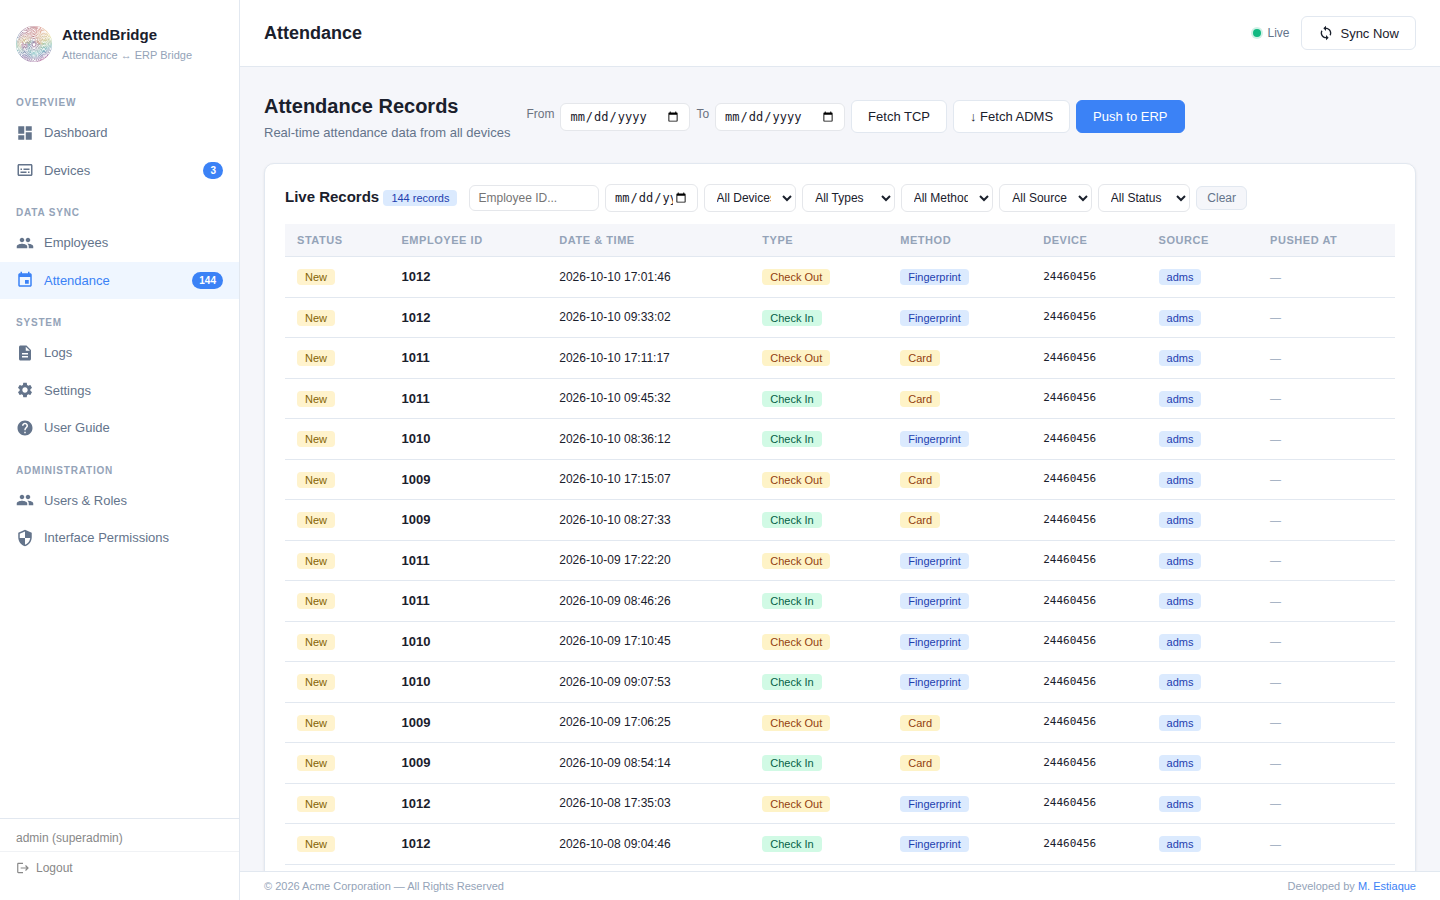
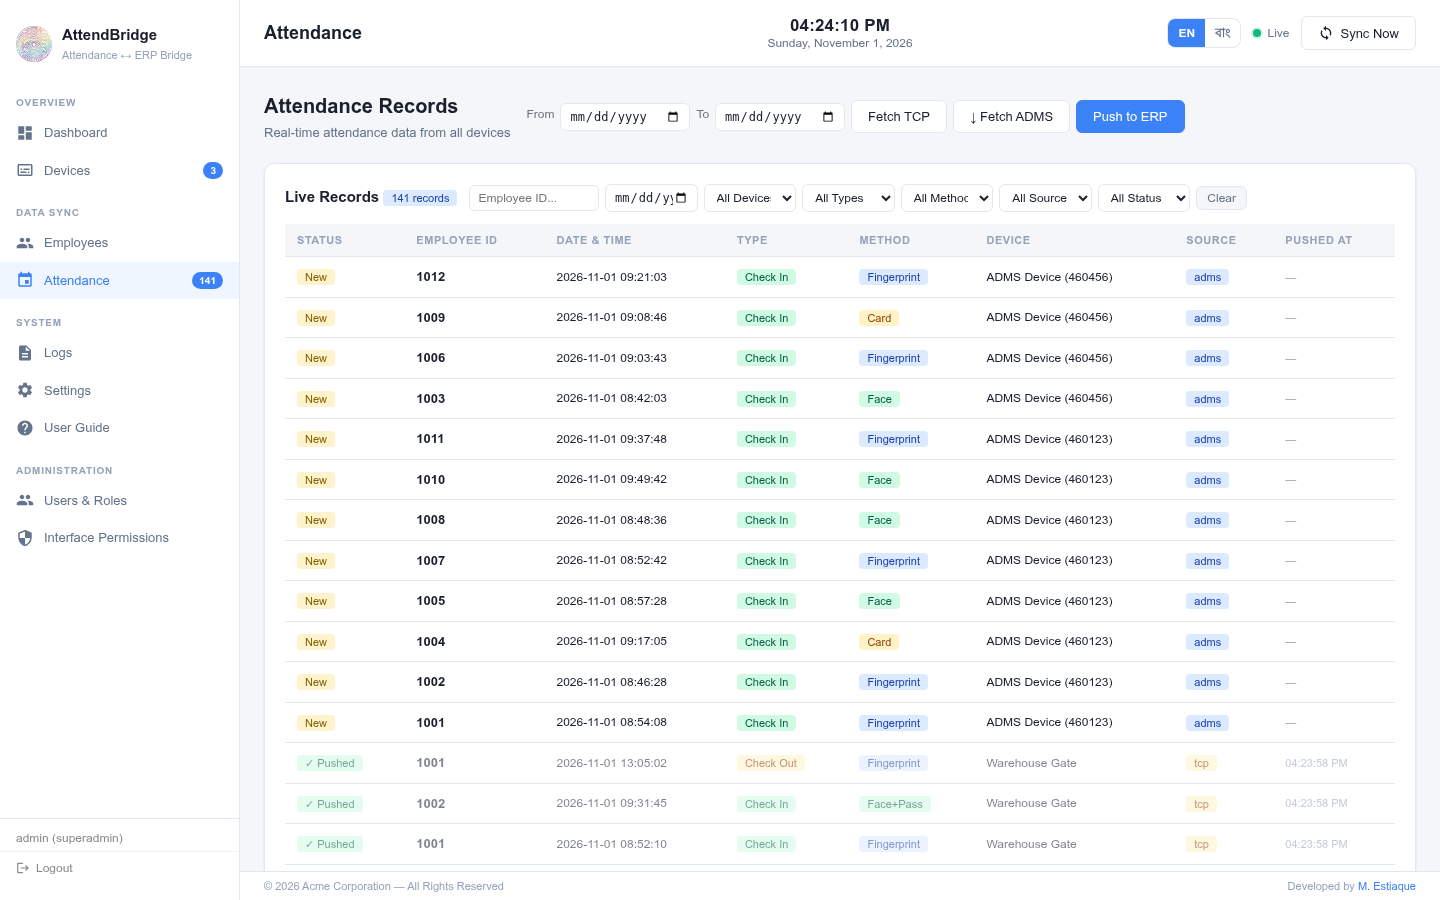
Refresh all screenshots; show device names in attendance table
- Documentation and CodeCanyon screenshots retaken on a demo built through
  the real ADMS, TCP/IP and ERP paths: new top bar with clock and language
  switch, no greeting row; inline preview re-rendered
- New Bengali screenshots: dashboard and user guide (marketing), and the
  dashboard in the documentation's Language section
- Attendance table and device filter show the device name instead of the
  last 8 characters of its ID (TCP/IP IDs looked like ".1:14371")

diff --git a/public/js/app.js b/public/js/app.js
@@ -358,7 +358,7 @@ function renderAttendanceTable() {
   const allDevices = [...new Set(records.map(r => r.deviceId))];
   const curDev = sel.value;
   sel.innerHTML = '<option value="">All Devices</option>' +
-    allDevices.map(d => `<option value="${d}" ${d===curDev?'selected':''}>${d.slice(-8)}</option>`).join('');
+    allDevices.map(d => `<option value="${escAttr(d)}" ${d===curDev?'selected':''}>${escAttr(deviceLabel(d))}</option>`).join('');
 
   // Apply filters
   const empFilter    = (val('filter-empid') || '').toLowerCase();
@@ -403,11 +403,17 @@ function renderAttendanceTable() {
       <td style="font-size:12px">${r.time}</td>
       <td><span class="tag ${r.status==='1'?'tag-amber':'tag-green'}">${r.status==='1'?'Check Out':'Check In'}</span></td>
       <td>${verifyLabel(r.verify)}</td>
-      <td style="font-size:11px;font-family:monospace">${(r.deviceId||'').slice(-8)}</td>
+      <td style="font-size:12px" title="${escAttr(r.deviceId || '')}">${escAttr(deviceLabel(r.deviceId))}</td>
       <td><span class="tag ${r.source==='adms'?'tag-blue':'tag-amber'}">${r.source||'—'}</span></td>
       <td style="color:var(--text-3);font-size:11px">${r.pushedAt ? formatTime(r.pushedAt) : '—'}</td>
     </tr>`;
   }).join('');
+}
+
+// Device name for a record's deviceId; the ID itself when the device is unknown
+function deviceLabel(id) {
+  const d = (state.devices || []).find(x => x.id === id);
+  return (d && d.name) || id || '—';
 }
 
 function filterAttendance() { renderAttendanceTable(); }

diff --git a/documentation/index.html b/documentation/index.html
@@ -529,6 +529,7 @@ class ZKController extends Controller
 <section id="language">
   <h2>Language &amp; top bar</h2>
   <p>AttendBridge speaks <b>English</b> and <b>Bengali (বাংলা)</b>. Switch with the <b>EN | বাং</b> buttons in the top bar; the sign-in page and the setup wizard have the same switch. Everything changes at once — menus, buttons, tables, messages, error texts and the User Guide — and the choice is remembered in that browser, so each user can pick their own language. Attendance data and what is sent to your ERP are not affected.</p>
+  <figure><img src="images/language-bn.png" alt="Dashboard in Bengali"><figcaption>The dashboard in Bengali. The EN | বাং switch is in the top bar.</figcaption></figure>
   <p>The top bar also shows the <b>current date and time</b> (in the chosen language), the live connection to the server (<i>Live</i> / <i>Disconnected</i>) and <b>Sync Now</b>.</p>
 </section>
 
